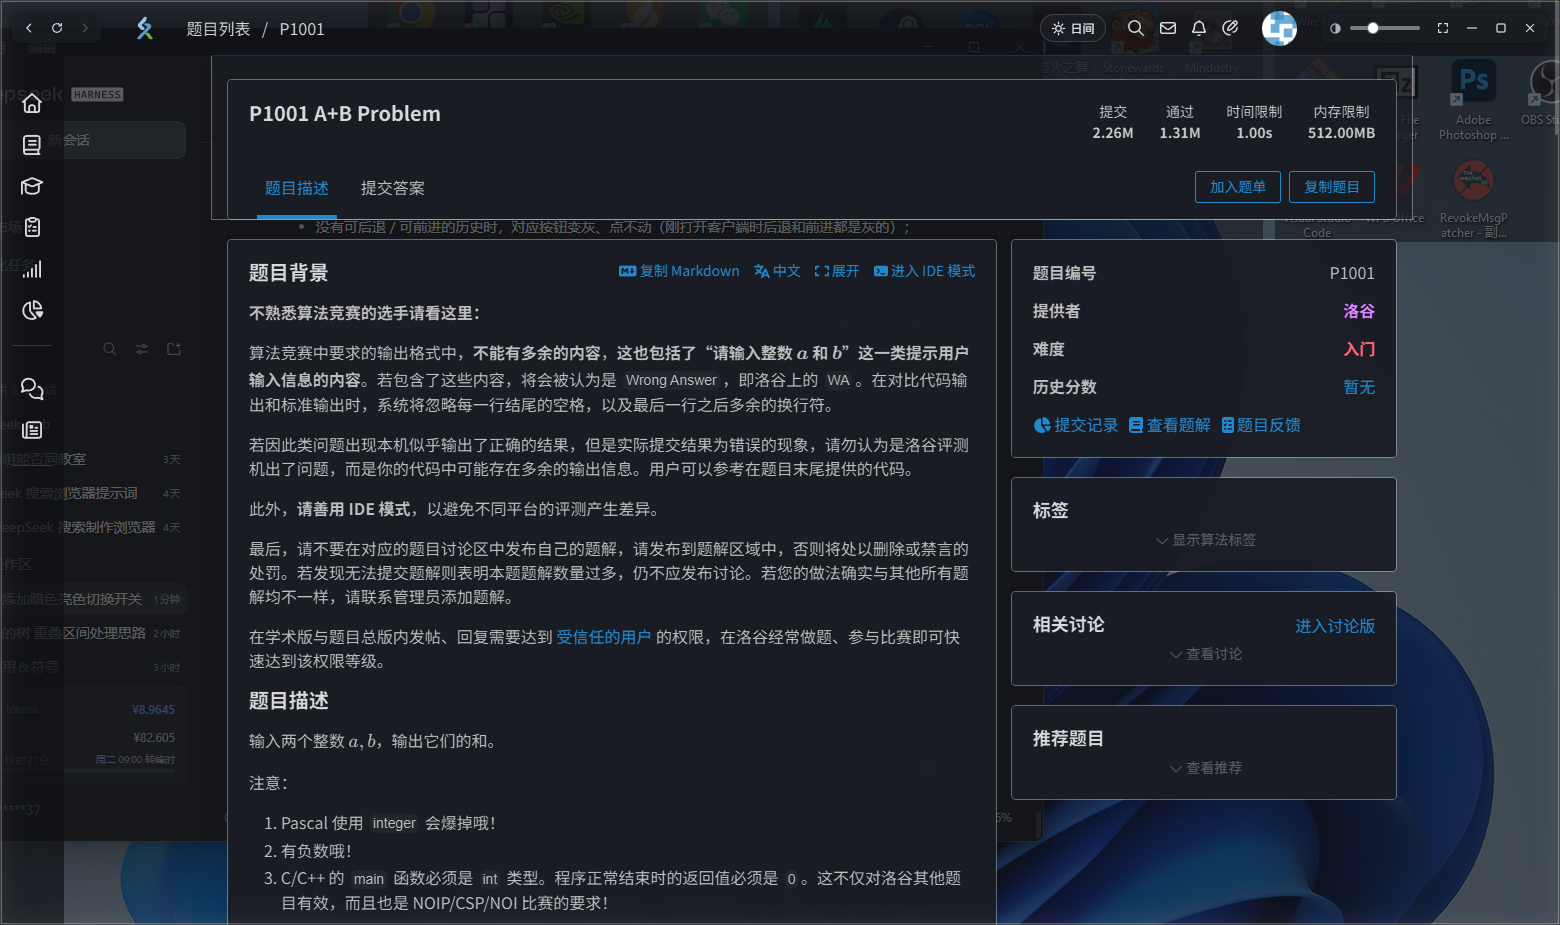
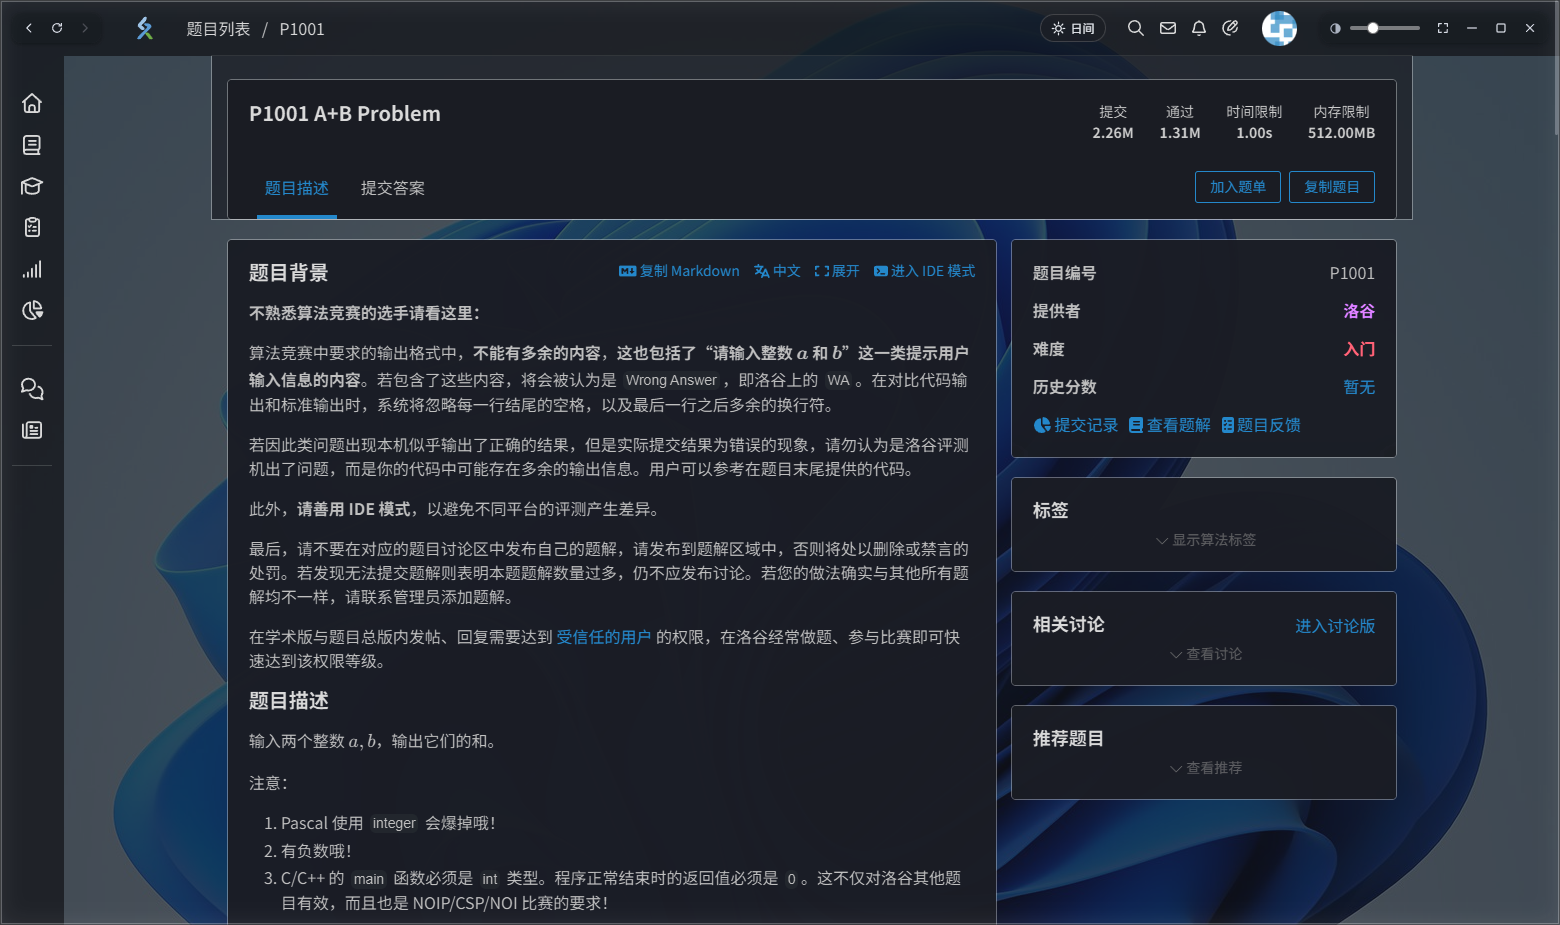
docs: 换掉暴露桌面的截图，README 重写成小白向的完整说明

diff --git a/README.md b/README.md
@@ -1,73 +1,114 @@
 # 洛谷桌面客户端（非官方）
 
-把洛谷装进一个干净的小窗口：没有地址栏、标签页、书签栏，深色 / 浅色一键切换，窗口还能透出桌面。
+把洛谷装进一个干净的小窗口：没有地址栏、标签页、书签栏；深色 / 浅色一键切换；窗口还能透出桌面，想看清就看清、想磨砂就磨砂。
 
 > 这是个人做的第三方外壳，**和洛谷官方没有任何关系**，不包含、不分发洛谷的任何代码或素材。
 
 ![磨砂模式](docs/frost.png)
 
-![纯透明模式](docs/clear.png)
+---
 
-## 特性
+## 目录
 
-- **干净外壳**：单窗口、无地址栏 / 标签页 / 菜单栏；站内链接窗口内打开，站外链接交给默认浏览器。
-- **深色模式**：顶栏右上角一键切换，按站点结构整块反色，图片保持原色，滚动时顶栏侧栏不会跑位。
-- **背景透明 + 磨砂**：窗口背景半透明，能看到桌面；点半圆图标可在「纯透明 / 磨砂（亚克力）」之间切换，右边滑块调透明度。
-- **全屏**：`F11` 或 ⛶ 进入，`Esc` 退出；全屏时窗口按钮整条隐藏。
-- **导航按钮**：左上角 ‹ ↻ ›，配 `Alt+←` / `F5` / `Alt+→`。
-- **去广告**：隐藏站内推广位，拦截常见广告 / 统计域名（请求层）。
-- **本地优先**：登录态、缓存、窗口位置、透明度设置都只存在本机，不上传任何数据。
+- [这是什么](#这是什么)
+- [下载就能用（推荐，小白看这里）](#下载就能用推荐小白看这里)
+- [第一次打开要知道的三件事](#第一次打开要知道的三件事)
+- [界面导览](#界面导览)
+- [两种透明效果](#两种透明效果)
+- [快捷键](#快捷键)
+- [常见问题](#常见问题)
+- [从源码安装](#从源码安装)
+- [卸载](#卸载)
+- [目录结构](#目录结构)
+- [原理（技术细节，可选读）](#原理技术细节可选读)
+- [免责声明](#免责声明)
+- [许可](#许可)
 
-## 快速开始
+---
 
-需要 **Windows 10/11**（磨砂效果需要 Windows 11）。
+## 这是什么
 
-```powershell
-git clone https://github.com/kaiyuan-123/luogu-client.git
-cd luogu-client
-powershell -ExecutionPolicy Bypass -File .\tools\install.ps1
+就是一个**专门用来刷洛谷的窗口**，里面跑的还是洛谷官网（`www.luogu.com.cn`），只是把浏览器那层外壳去掉了：
+
+- 没有地址栏、标签页、书签栏，一个窗口只有洛谷；
+- 深色 / 浅色一键切换，配色是照着洛谷页面结构重做的，图片不会变成负片；
+- 窗口背景半透明，能透出桌面；可以在「纯透明」和「磨砂」之间切，右边还有滑块调透明度；
+- 全屏、后退 / 前进 / 刷新、快捷键，该有的都有；
+- 登录态、缓存只存在你自己的电脑上，不上传任何东西。
+
+**适合谁**：天天刷洛谷、又嫌网页版太亮或者太乱的人。
+**不适合谁**：想拿它批量爬题、自动提交的人——它没有这些功能，也不打算有。
+
+---
+
+## 下载就能用（推荐，小白看这里）
+
+**不需要装 Python、Node.js，不需要会命令行。**
+
+### 第 1 步：下载压缩包
+
+打开仓库右侧的 **Releases**（或直接访问 `https://github.com/kaiyuan-123/luogu-client/releases`），找到最新版本，在下面 **Assets** 里点 `luogu-client-win64.zip` 下载。
+
+> 文件大约 150MB，里面已经带了运行环境，不用再装别的东西。
+
+### 第 2 步：解压
+
+把下载到的 zip **右键 → 全部解压缩**，解压到一个你找得到的地方，比如：
+
+```
+D:\LuoguClient
 ```
 
-脚本会：
+> ⚠ 不要直接在压缩包里双击运行，一定要先解压出来。
 
-1. 把 `app\` 复制到 `D:\LuoguClient`（D 盘不存在时用 `%LOCALAPPDATA%\LuoguClient`）；
-2. 下载 Electron 运行时（约 150MB，走 npmmirror 镜像）；
-3. 生成启动器 `启动洛谷.vbs`；
-4. 在桌面创建「洛谷」快捷方式。
+### 第 3 步：双击启动
 
-想装到别处：
+打开解压出来的文件夹，双击 **`启动洛谷.vbs`**。
 
-```powershell
-powershell -ExecutionPolicy Bypass -File .\tools\install.ps1 -Target "E:\Apps\LuoguClient"
+等几秒，洛谷的窗口就出来了。第一次打开会慢一点（要初始化缓存），之后就快了。
+
+### 第 4 步（可选）：放到桌面
+
+想以后一点就开：
+
+1. 右键 `启动洛谷.vbs`
+2. **发送到 → 桌面快捷方式**
+3. 桌面会多一个快捷方式，可以重命名成「洛谷」；想换图标就右键 → 属性 → 更改图标，选文件夹里的 `app\icon.ico`
+
+### 如果 Windows 拦截了
+
+第一次运行可能出现下面两种提示，都不是病毒（因为这是没有数字签名的个人程序）：
+
+- **「Windows 已保护你的电脑」**：点 **更多信息** → **仍要运行**；
+- **杀毒软件报毒**：Electron 程序被误报很常见，把这个文件夹加入信任 / 白名单即可。
+
+---
+
+## 第一次打开要知道的三件事
+
+**1. 登录**
+
+窗口右上角点「登录」，正常用洛谷账号登录即可。登录一次之后会一直记住。
+
+**2. 数据存在哪**
+
+第一次启动后，文件夹里会多出一个 **`数据`** 文件夹：
+
+```
+你的文件夹\
+├─ app\              ← 程序（可以改配置）
+├─ electron\         ← 运行环境（删了就打不开）
+├─ 数据\             ← 登录状态、缓存、窗口位置都在这
+├─ 启动洛谷.vbs      ← 双击这个启动
+└─ 说明.txt
 ```
 
-## 使用
+- 想**退出登录 / 清空缓存**：关掉窗口，删掉 `数据` 文件夹，重新打开即可；
+- 想**搬走整个客户端**：把整个文件夹复制走就行，双击 vbs 照常用（登录状态跟着走）。
 
-| 位置 | 功能 |
-| --- | --- |
-| 左上角 `‹ ↻ ›` | 后退 / 刷新 / 前进（无历史时自动变灰） |
-| 顶栏右侧 `☾ 夜间` / `☀ 日间` | 切换深色 / 浅色 |
-| 顶栏右侧半圆图标 | 弹出「纯透明 / 磨砂」菜单 |
-| 顶栏右侧滑块 | 背景透明度（0% 不透明 → 100% 最透） |
-| 顶栏右侧 `⛶ — □ ✕` | 全屏 / 最小化 / 最大化 / 关闭 |
+**3. 怎么关掉去广告**
 
-快捷键：
-
-| 快捷键 | 作用 |
-| --- | --- |
-| `Alt + ←` / `Alt + →` | 后退 / 前进 |
-| `F5`、`Ctrl + R` | 刷新 |
-| `F11` | 进出全屏 |
-| `Esc` | 退出全屏 |
-| `Alt + Shift + D` | 切换深色 / 浅色 |
-| `Ctrl + M` / `Ctrl + W` | 最小化 / 关闭窗口 |
-| `Ctrl + +` / `-` / `0` | 缩放 / 还原 |
-
-窗口操作：拖顶栏移动窗口，拖四条边 / 四个角调整大小。
-
-## 去广告开关
-
-`app/config.json`：
+打开 `app\config.json`，用记事本改：
 
 ```json
 {
@@ -79,21 +120,163 @@ powershell -ExecutionPolicy Bypass -File .\tools\install.ps1 -Target "E:\Apps\Lu
 - `hidePromos`：隐藏站内推广位（右侧「洛谷推荐」那一类）
 - `blockAds`：拦截常见广告 / 统计域名
 
-不想去广告就把对应项改成 `false`，重启客户端生效——代码里没有硬编码，完全由这个文件控制。
+改成 `false` 保存，重启客户端生效。改坏了也不要紧，删掉这个文件会自动用默认值。
 
-## 实现原理（简述）
+---
 
-- 用 Electron 加载 `https://www.luogu.com.cn/`，`frame: false` + `transparent: true` 做出无边框透明窗口；借洛谷自己的顶栏当拖动区域。
-- 深色不是简单套一层反色滤镜：页面的顶层容器（顶栏 / 侧栏 / 内容区 / 弹层）各自 `filter: invert(1) hue-rotate(180deg)`，再把主题变量换成「反色前的浅色」，于是卡片、底色、边框都有层次；图片再反一次抵消，保持原色。
-- 透明：把页面底色的 alpha 交给窗口底色和 CSS 变量，文字不参与透明；磨砂用 Windows 11 的 acrylic 材质由 DWM 模糊桌面。
-- 兜底扫描：对少数没被规则覆盖的大块组件，扫描后统一换成同色 + 当前透明度。
+## 界面导览
 
-## 已知限制
+![工具栏](docs/toolbar.png)
 
-- 只在 Windows 上做过测试；macOS / Linux 能跑，但磨砂和透明效果没验证。
-- 磨砂需要 Windows 11；Windows 10 上会自动退化成纯透明（没效果但不报错）。
-- 站外链接、广告、部分第三方 iframe 保持原样。
-- 洛谷改版后如果结构大变，深色覆盖可能需要跟着调整（`app/theme.css` 里有注释说明）。
+| 位置 | 是什么 | 说明 |
+| --- | --- | --- |
+| 最左边 `‹ ↻ ›` | 后退 / 刷新 / 前进 | 没有历史时对应按钮会变灰 |
+| 左二 | 洛谷 logo + 面包屑 | 点 logo 回首页 |
+| 右侧 `☾ 夜间` / `☀ 日间` | 深色 / 浅色切换 | 会记住你的选择 |
+| 右侧半圆图标 | 透明效果菜单 | 点开选「纯透明 / 磨砂」 |
+| 右侧滑块 | 背景透明度 | 往左更实、往右更透 |
+| 右侧 `⛶` | 全屏 | 全屏时这一排按钮会隐藏 |
+| 右侧 `—` `□` `✕` | 最小化 / 最大化 / 关闭 | 最大化后再点一次是还原 |
+
+窗口本身没有标题栏，所以：
+
+- **移动窗口**：按住顶栏空白处拖；
+- **调整大小**：拖窗口的四条边或四个角。
+
+---
+
+## 两种透明效果
+
+| 纯透明 | 磨砂 |
+| --- | --- |
+| ![纯透明](docs/clear.png) | ![磨砂](docs/frost.png) |
+| 桌面原样透出来，壁纸细节都看得见 | Windows 把窗口背后的桌面模糊掉，只透颜色 |
+
+**怎么切**：点顶栏右侧那个半圆图标 → 菜单里选「纯透明」或「磨砂」，当前生效的那项后面有 ✓。
+
+> 磨砂用的是 Windows 11 的亚克力（acrylic）材质，Windows 10 没有这个效果，会自动退化成纯透明。
+
+**透明度**：滑块越靠右越透。深色 + 磨砂把滑块拉满时会保留一层很淡的暗色底，避免整页被磨砂冲成灰白。
+
+---
+
+## 快捷键
+
+| 快捷键 | 作用 |
+| --- | --- |
+| `Alt + ←` | 后退 |
+| `Alt + →` | 前进 |
+| `F5` / `Ctrl + R` | 刷新 |
+| `F11` | 进入 / 退出全屏 |
+| `Esc` | 退出全屏 |
+| `Alt + Shift + D` | 深色 / 浅色切换 |
+| `Ctrl + M` | 最小化 |
+| `Ctrl + W` | 关闭窗口 |
+| `Ctrl + +` / `Ctrl + -` / `Ctrl + 0` | 放大 / 缩小 / 还原 |
+
+---
+
+## 常见问题
+
+**双击 `启动洛谷.vbs` 没反应？**
+
+- 检查文件夹里有没有 `electron\electron.exe`——没有就是解压不完整，重新解压一次；
+- 右键 vbs → 编辑，看看里面写的路径对不对（正常是相对路径，能跟着文件夹走）；
+- 也可能是杀毒软件把 `electron.exe` 隔离了，去隔离区恢复并加白名单。
+
+**窗口是白的 / 一直转圈 / 提示连不上？**
+
+客户端内置了一个「连不上洛谷」的错误页，点「重试」即可。如果一直不行，先在浏览器里打开 `www.luogu.com.cn` 确认网络正常，或者检查代理软件。
+
+**磨砂没效果？**
+
+需要 Windows 11。Windows 10 上系统不提供这个材质，菜单里选了也不会变，属正常现象。
+
+**字看起来有点糊 / 太透看不清？**
+
+- 把透明度滑块往左拉（更实）；
+- 或者在纯透明 / 磨砂之间换一个试试；
+- 也别把窗口拉得特别小——页面是自适应布局，太小会挤。
+
+**窗口拖不动 / 拉不大？**
+
+拖顶栏空白处是移动；拉边角是调整大小（四边和四角都有热区，鼠标移上去会变成双箭头）。全屏和最大化状态下不能再拉伸，先还原。
+
+**关闭窗口后进程还在？**
+
+正常关闭就是退出程序。如果任务管理器里还有残留的 `electron.exe`，右键结束任务即可（一般是上次异常退出留下的）。
+
+**更新了新版本，登录会丢吗？**
+
+不会——登录状态在 `数据` 文件夹里。解压新版本时**不要覆盖 `数据` 文件夹**，或者把旧的 `数据` 拷到新文件夹里就行。
+
+---
+
+## 从源码安装
+
+会一点命令行的话，可以自己拉源码装：
+
+```powershell
+git clone https://github.com/kaiyuan-123/luogu-client.git
+cd luogu-client
+powershell -ExecutionPolicy Bypass -File .\tools\install.ps1
+```
+
+脚本会：
+
+1. 把 `app\` 复制到 `D:\LuoguClient`（没有 D 盘就用 `%LOCALAPPDATA%\LuoguClient`）；
+2. 下载 Electron 运行时（约 150MB）；
+3. 生成 `启动洛谷.vbs`；
+4. 在桌面创建「洛谷」快捷方式。
+
+换安装位置：
+
+```powershell
+powershell -ExecutionPolicy Bypass -File .\tools\install.ps1 -Target "E:\Apps\LuoguClient"
+```
+
+只改了 `app\theme.css` 想立刻看效果？关掉窗口重新打开就行，不用重新安装。
+
+---
+
+## 卸载
+
+1. 关掉客户端；
+2. 删掉整个文件夹（比如 `D:\LuoguClient`）；
+3. 删掉桌面快捷方式。
+
+不写注册表、不装服务、不开机自启，删干净就没了。
+
+---
+
+## 目录结构
+
+```
+luogu-client/
+├─ app/                 程序本体
+│  ├─ main.js           主进程：窗口、IPC、快捷键、请求拦截
+│  ├─ preload.js        页面注入：主题开关、透明度、导航按钮、去广告
+│  ├─ theme.css         深色 / 浅色 / 透明 的全部样式
+│  ├─ offline.html      断网时的错误页
+│  ├─ config.json       去广告开关
+│  └─ icon.ico/png      图标
+├─ tools/
+│  └─ install.ps1       一键安装脚本
+├─ docs/                README 用的截图
+├─ README.md
+└─ LICENSE
+```
+
+---
+
+## 原理（技术细节，可选读）
+
+- **窗口**：Electron + `frame: false` + `transparent: true` 做出无边框透明窗口；借洛谷自己的顶栏当拖动区域（`-webkit-app-region`），关闭 / 最大化按钮是自己画的。
+- **深色**：不是简单套一层 `invert` 滤镜。洛谷的页面是几个互不嵌套的顶层容器（顶栏 / 侧栏 / 内容区 / 弹层），给它们各自 `filter: invert(1) hue-rotate(180deg)`，再把主题变量换成「反色前的浅色」，这样卡片、底色、边框仍然有层次；图片再反一次抵消，保持原色。滚动时因为容器本身是 fixed，不会被滤镜带跑。
+- **透明**：窗口底色 + CSS 变量控制 alpha，文字不参与透明；磨砂交给 Windows 11 的 acrylic 材质由 DWM 合成，不额外吃 GPU。
+- **兜底**：对少数没被规则覆盖的大块组件，分片扫一遍，统一换成同色 + 当前透明度，避免出现不透明的补丁。
+
+---
 
 ## 免责声明
 
